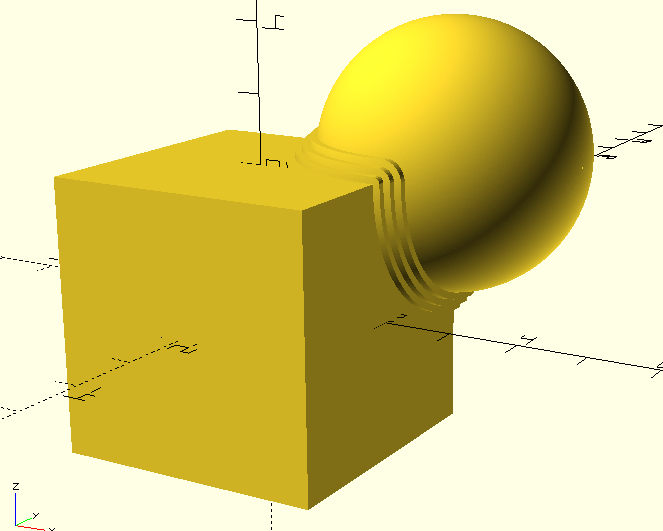
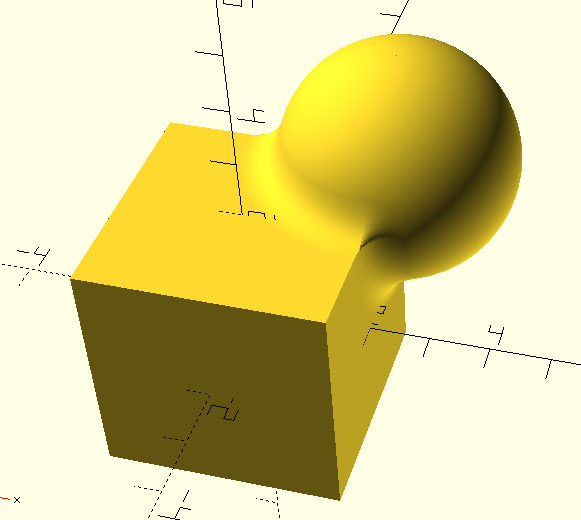
updated index.html

diff --git a/index.php b/index.php
@@ -165,7 +165,7 @@
             So the proposed solution is to put the Python capability behind an option, which I have done.
             Now I hope it's just a matter of time until things are merged.</p>
 
-            <p>This is where you come in. Use this fork, <a href="https://github.com/openscad/openscad/pull/4601">have your say</a>, and let's get it in!</p>
+            <p>This is where you come in. Use this fork, <a href="https://github.com/openscad/openscad/pull/4588">have your say</a>, and let's get it in!</p>
 
         </div>
       </div>
@@ -179,7 +179,7 @@
           <p>
             Before downloading it, please understand that "Python | OpenSCAD" is a fork currently maintained by myself, gsohler.
             I heavily wish for this fork/branch to be merged into mainline OpenSCAD and have been working towards
-            making it happen. <a href="https://github.com/openscad/openscad/pull/4601">You can follow the progress here</a>.
+            making it happen. <a href="https://github.com/openscad/openscad/pull/4588">You can follow the progress here</a>.
           </p>
 
           <p>
@@ -269,13 +269,13 @@ from pylibfive import *
 c=lv_coord()
 s1=lv_sphere(lv_trans(c,[2,2,2]),2)
 b1=lv_box(c,[2,2,2])
-sdf=lv_union_stairs(s1,b1,0.4,3])
+sdf=lv_union_smooth(s1,b1,0.6])
 fobj=frep(sdf,[-4,-4,-4],[4,4,4],20)
 output(obj)
 
             </pre>
           <p>
-            If you're unfamiliar please look up "Inigo Iquilez", the god-father of SDFs.
+            If you're unfamiliar please look up "Inigo Quilez", the god-father of SDFs.
           </p>
 
          <p>
